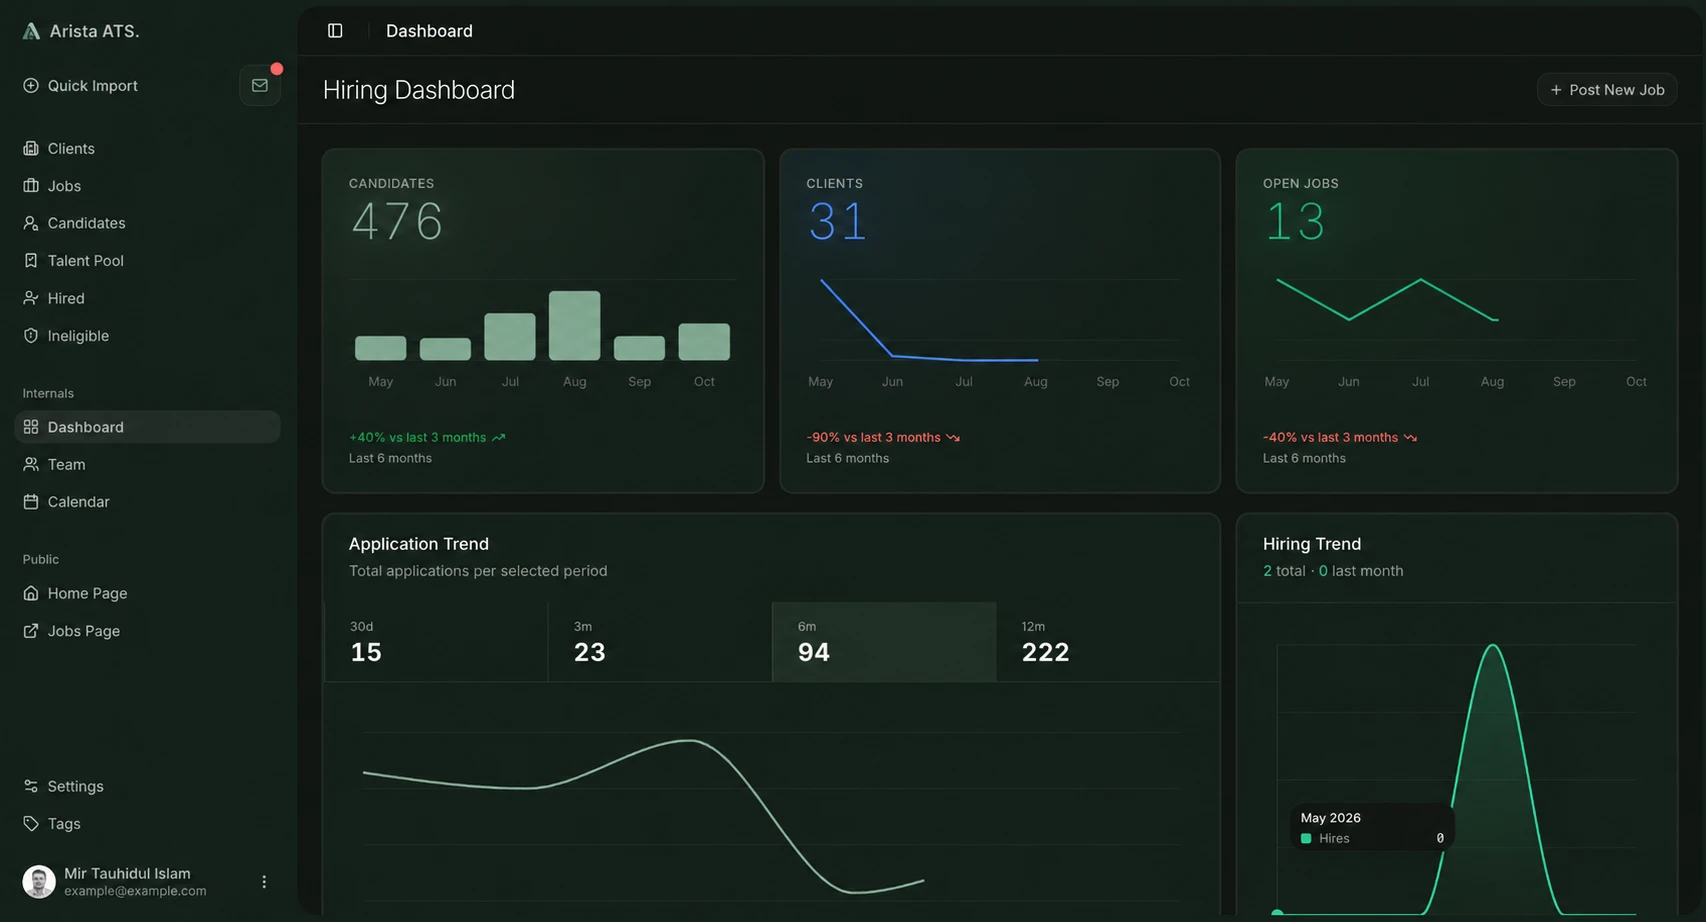
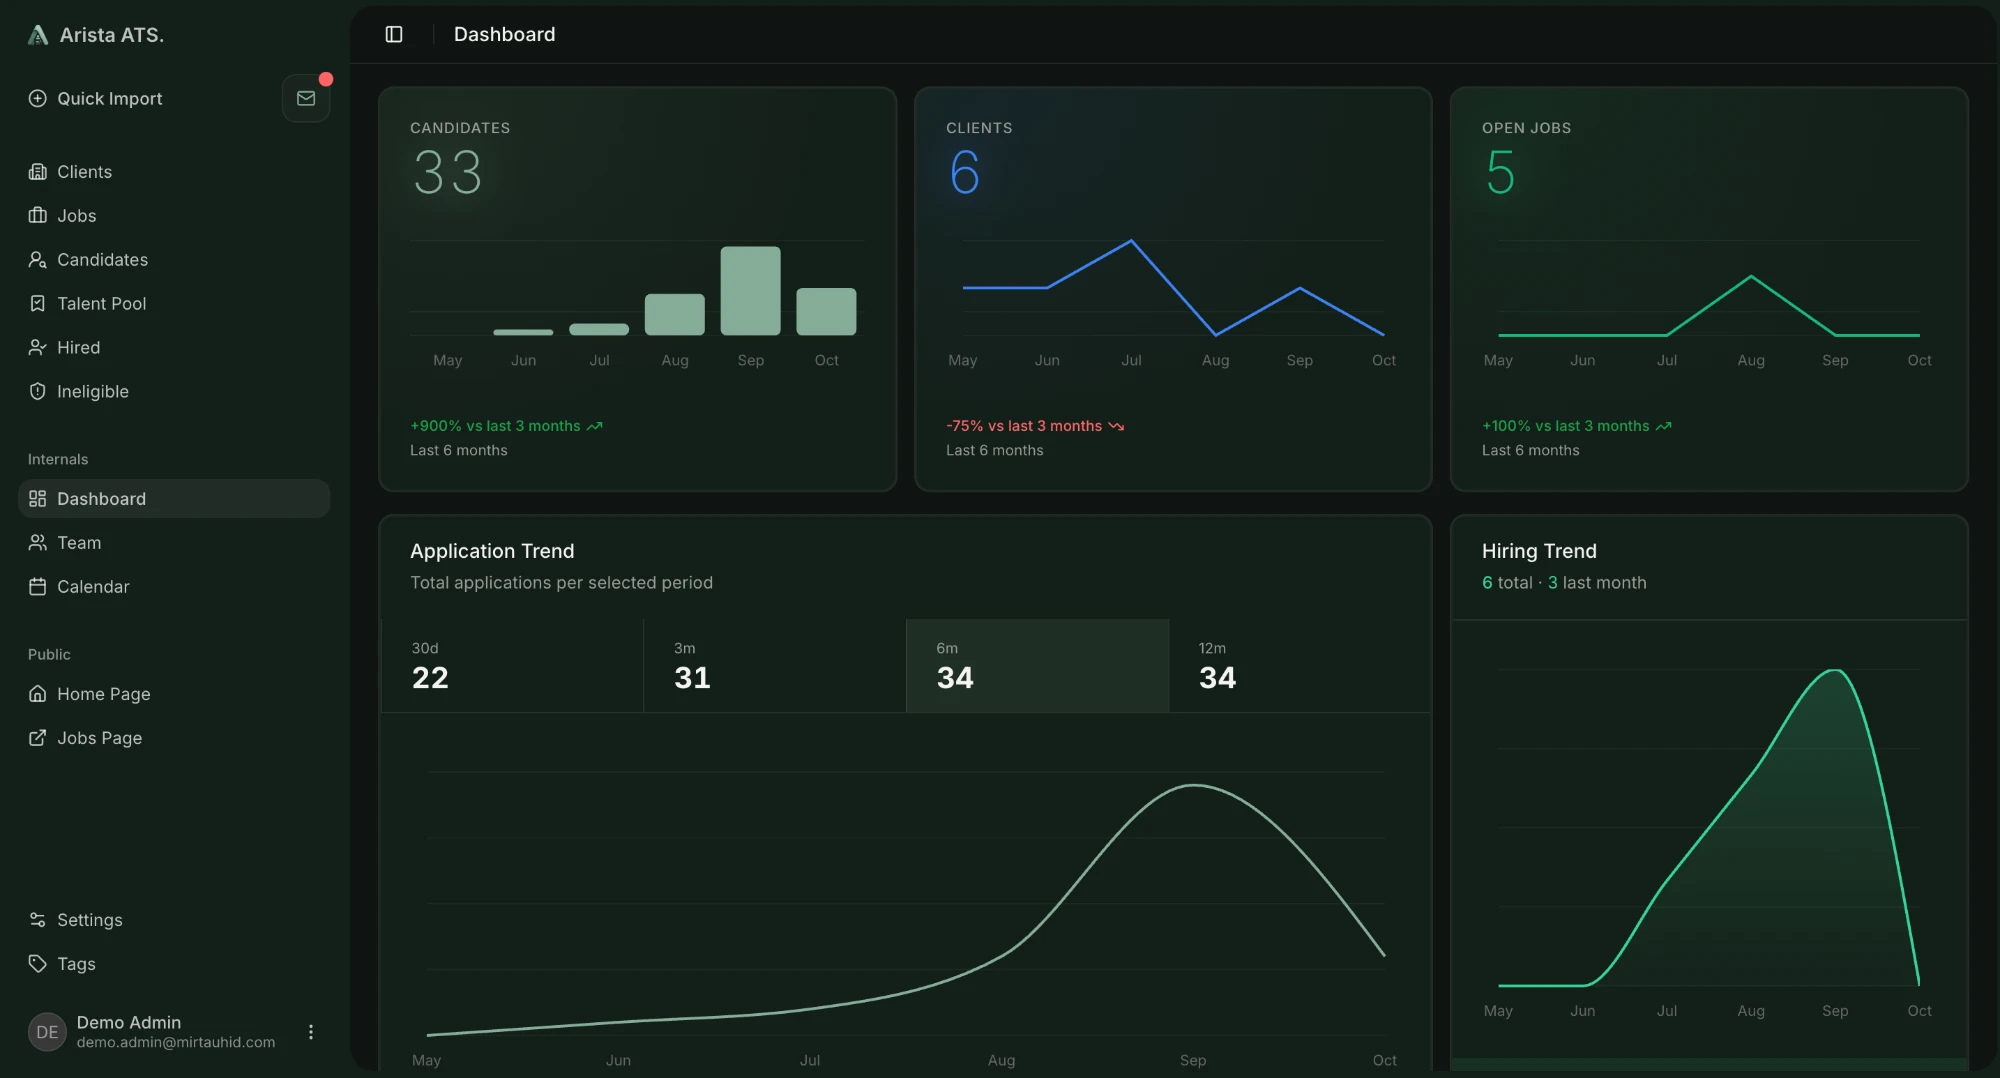
feat: case study screenshot tabs, rotating hero role, new stats, Compliance Dashboard project

diff --git a/src/content/projects.ts b/src/content/projects.ts
@@ -50,11 +50,67 @@ export const projects: CaseStudy[] = [
     ],
     screenshots: [
       {
+        label: "Landing",
+        src: "/images/arista-ats-landing.webp",
+        width: 2000,
+        height: 1080,
+        alt: "Arista ATS landing page: Hiring, organized, with an Enter workspace button",
+      },
+      {
         label: "Dashboard",
         src: "/images/arista-ats-dashboard.webp",
-        width: 1706,
-        height: 922,
-        alt: "Arista ATS hiring dashboard with candidate, client and open job totals and application and hiring trend charts",
+        width: 2000,
+        height: 1080,
+        alt: "Arista ATS dashboard with candidate, client and open job totals and application and hiring trend charts",
+      },
+      {
+        label: "Candidates",
+        src: "/images/arista-ats-candidates.webp",
+        width: 2000,
+        height: 1080,
+        alt: "Candidates table with job applied, current stage, skills and AI score for each candidate",
+      },
+      {
+        label: "Jobs",
+        src: "/images/arista-ats-jobs.webp",
+        width: 2000,
+        height: 1080,
+        alt: "Jobs list beside the details of the selected job, with salary range, skills, tags and description",
+      },
+      {
+        label: "Client",
+        src: "/images/arista-ats-client.webp",
+        width: 2000,
+        height: 1080,
+        alt: "Client details panel with contact info, company details, tags and tabs for contacts, jobs, activity, notes and CRM",
+      },
+      {
+        label: "Hired",
+        src: "/images/arista-ats-hired.webp",
+        width: 2000,
+        height: 1080,
+        alt: "Hired candidates table showing the job each was hired for, tags and hire date",
+      },
+      {
+        label: "Profile",
+        src: "/images/arista-ats-profile.webp",
+        width: 2000,
+        height: 1080,
+        alt: "Candidate profile with AI score, summary, skills, certifications and work experience",
+      },
+      {
+        label: "Team",
+        src: "/images/arista-ats-team.webp",
+        width: 2000,
+        height: 1080,
+        alt: "Team table with each member's role, status and app access",
+      },
+      {
+        label: "Settings",
+        src: "/images/arista-ats-settings.webp",
+        width: 2000,
+        height: 1080,
+        alt: "General settings for the workspace, email sender and AI features",
       },
     ],
   },
@@ -100,7 +156,50 @@ export const projects: CaseStudy[] = [
       "Switch between Claude and OpenAI with one setting",
       "Export all your data, or delete the account and everything in it",
     ],
-    screenshots: [],
+    screenshots: [
+      {
+        label: "Landing",
+        src: "/images/niblet-landing.webp",
+        width: 2000,
+        height: 1080,
+        alt: "Niblet landing page: Just say what you ate, with a sample receipt-style food log",
+      },
+      {
+        label: "Chat",
+        src: "/images/niblet-chat.webp",
+        width: 2000,
+        height: 1080,
+        alt: "Niblet chat logging a curry dinner from a photo, with a daily calorie and macro summary beside it",
+      },
+      {
+        label: "Meals",
+        src: "/images/niblet-meals.webp",
+        width: 2000,
+        height: 1080,
+        alt: "Meal log grouped by day with calories, macros and the assumption behind each estimate",
+      },
+      {
+        label: "Weight",
+        src: "/images/niblet-weight.webp",
+        width: 2000,
+        height: 1080,
+        alt: "Weight log with the latest weight and the change since each earlier entry",
+      },
+      {
+        label: "Insights",
+        src: "/images/niblet-insights.webp",
+        width: 2000,
+        height: 1080,
+        alt: "Insights page with weight and calorie charts, goal progress and daily macro averages",
+      },
+      {
+        label: "Goals",
+        src: "/images/niblet-goals.webp",
+        width: 2000,
+        height: 1080,
+        alt: "Goals tab showing weight loss progress and daily calorie and macro targets",
+      },
+    ],
   },
   {
     title: "Draftboard",
@@ -185,5 +284,22 @@ export const projects: CaseStudy[] = [
     stack: ["React", "TypeScript", "Framer Motion"],
     live: "https://mail-forge-ai.vercel.app",
     repo: "https://github.com/mtauhidul/mail-forge",
+  },
+  {
+    title: "Compliance Dashboard",
+    slug: "compliance-dashboard",
+    kind: "Security",
+    context: "Concept project",
+    role: "Frontend design engineer",
+    year: "2026",
+    summary:
+      "Dark-mode dashboard UI for tracking security findings and compliance frameworks.",
+    problem:
+      "Security teams juggle findings, frameworks and controls across scattered tools and spreadsheets.",
+    solution:
+      "A dashboard interface designed and built from a concept, iterating in code with no mockups. It shows KPI metrics, a findings table with severity colours, framework status for SOC2, ISO27001, GDPR, HIPAA and PCI-DSS, and a control list. The UI is the focus: the data is sample data.",
+    results: [],
+    stack: ["Next.js", "Tailwind CSS", "TypeScript"],
+    live: "https://compliance-dashboard-zeta.vercel.app",
   },
 ];

diff --git a/src/components/sections/hero.tsx b/src/components/sections/hero.tsx
@@ -1,10 +1,13 @@
 "use client";
 
+import { useEffect, useRef, useState } from "react";
 import { motion } from "motion/react";
 import { profile } from "@/content/profile";
 import { buttonClasses } from "@/components/ui/button";
 import { Crosshairs } from "@/components/ui/guides";
 import { Container } from "@/components/ui/container";
+
+const roles = ["Frontend Developer", "Design Engineer", "Solo Builder"];
 
 const ease = [0.22, 1, 0.36, 1] as const;
 
@@ -29,6 +32,56 @@ const fade = (delay: number) => ({
   transition: { duration: 0.8, delay, ease },
 });
 
+/** Cycles through the roles. They are stacked in one grid cell, and the box eases to the width of the visible one so the location stays close. */
+function RotatingRole() {
+  const [i, setI] = useState(0);
+  const [widths, setWidths] = useState<number[]>([]);
+  const refs = useRef<(HTMLSpanElement | null)[]>([]);
+
+  useEffect(() => {
+    const measure = () => setWidths(refs.current.map((el) => el?.offsetWidth ?? 0));
+    measure();
+    document.fonts?.ready.then(measure);
+    window.addEventListener("resize", measure);
+    return () => window.removeEventListener("resize", measure);
+  }, []);
+
+  useEffect(() => {
+    const id = setInterval(() => setI((n) => (n + 1) % roles.length), 2800);
+    return () => clearInterval(id);
+  }, []);
+
+  const prev = (i + roles.length - 1) % roles.length;
+
+  return (
+    <motion.span
+      className="inline-grid overflow-hidden whitespace-nowrap"
+      initial={false}
+      animate={widths.length ? { width: widths[i] } : undefined}
+      transition={{ duration: 0.6, ease }}
+    >
+      {roles.map((r, idx) => (
+        <motion.span
+          key={r}
+          aria-hidden={idx !== i}
+          ref={(el) => {
+            refs.current[idx] = el;
+          }}
+          className="w-max [grid-area:1/1]"
+          initial={false}
+          animate={{
+            y: idx === i ? "0%" : idx === prev ? "-110%" : "110%",
+            opacity: idx === i ? 1 : 0,
+          }}
+          transition={{ duration: 0.6, ease }}
+        >
+          {r}
+        </motion.span>
+      ))}
+    </motion.span>
+  );
+}
+
 export function Hero() {
   return (
     <section
@@ -42,11 +95,11 @@ export function Hero() {
       <Container>
         <motion.p {...fade(0.2)} className="label mb-8 flex items-center gap-3">
           <span className="bg-accent size-2" />
-          {profile.role} · {profile.location}
+          <RotatingRole /> · {profile.location}
         </motion.p>
 
         <div className="[container-type:inline-size]">
-          <h1 className="display text-[15cqw] md:text-[10cqw]">
+          <h1 className="display text-[15cqw] md:text-[10.8cqw]">
             <Line delay={0.3}>Design engineer</Line>
             <Line delay={0.4}>
               building for <span className="text-accent">the web.</span>
@@ -57,7 +110,7 @@ export function Hero() {
         <div className="mt-10 grid gap-10 md:mt-14 md:grid-cols-12 md:items-end md:gap-x-10">
           <motion.p
             {...fade(0.9)}
-            className="text-fg-muted text-lg md:col-span-7 md:text-xl"
+            className="text-fg-muted text-base md:col-span-7 md:text-xl"
           >
             {profile.intro}
           </motion.p>

diff --git a/src/content/profile.ts b/src/content/profile.ts
@@ -10,16 +10,16 @@ export const profile = {
     "I turn rough ideas into working, on-brand web apps. I design directly in code, so there's no mockup stage, just the real product.",
   proof: [
     { value: "30+", label: "projects" },
-    { value: "3+ yrs", label: "building for the web" },
-    { value: "0", label: "static mockups" },
+    { value: "5+ yrs", label: "building for the web" },
+    { value: "800+", label: "candidates handled in my ATS" },
   ],
   about: {
     lead: "I'm Mir Tauhidul Islam, a frontend design engineer with some backend experience. I care about how a product looks and feels, and I build it myself.",
-    body: "I started building for the web in 2023 and have worked on 30+ projects since. I skip the static mockups and design directly in code, so what I show is what ships.",
+    body: "I started building for the web in 2021 as a freelancer, joined ProviderLINK in 2023, and have worked on 30+ projects since. I skip the static mockups and design directly in code, so what I show is what ships.",
     facts: [
       { label: "Based in", value: "Dhaka, Bangladesh" },
       { label: "Focus", value: "Interface design, design systems and responsive UI" },
-      { label: "Building since", value: "2023" },
+      { label: "Building since", value: "2021" },
     ],
   },
   socials: [

diff --git a/src/components/sections/screenshot-frame.tsx b/src/components/sections/screenshot-frame.tsx
@@ -35,14 +35,15 @@ export function ScreenshotFrame({
       </div>
 
       {shot ? (
-        <Image
-          src={shot.src}
-          alt={shot.alt}
-          width={shot.width}
-          height={shot.height}
-          sizes="(min-width: 1152px) 1072px, 100vw"
-          className="h-auto w-full"
-        />
+        <div className="relative aspect-[2000/1080]">
+          <Image
+            src={shot.src}
+            alt={shot.alt}
+            fill
+            sizes="(min-width: 1152px) 1072px, 100vw"
+            className="object-cover object-top"
+          />
+        </div>
       ) : (
         <PlaceholderImage
           label={`${name} / screenshot coming`}
